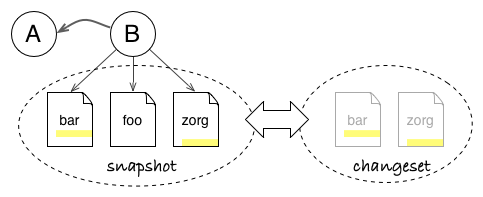
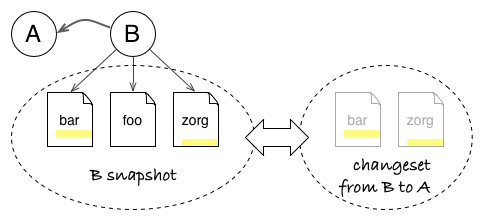
review: clarify some figure captions (JB)

diff --git a/demystifying_git2.md b/demystifying_git2.md
@@ -22,7 +22,7 @@ You make a cherry-pick when you want to retrieve some commits and changes from a
 
 _With `git cherry-pick B D`, you can copy changes from commits B and D into your current branch, without the change introduced by C. Notice that B’ and D’ are new commits: they just have the same data as their source but are independent otherwise._
 
-![](https://36.media.tumblr.com/6a23a581e1932175e2c1c519192d6b84/tumblr_inline_nn7e8uZ6MF1szbtyb_540.png)
+![](https://lh6.googleusercontent.com/-mCH6lljn2JI/VT5e0zYzqwI/AAAAAAAAC9Q/T3qNwT6FG4s/w200-h350-no/cherrypick.gif)
 
 Cherry-picking really embodies the whole changeset everywhere principle.
 
@@ -48,15 +48,15 @@ Here is the course of action when you launch a rebase:
 
 With this workflow in mind, it is easy to understand two fringe cases which deter some people to use rebase: orphan commits coming back (for example, after a merge) and recurring conflicts during rebase.
 
-### Orphan Commits
+### Advanced Git: Orphan Commits
 
-Although rebasing is often explained as moving commits around, it is best to understand it as copying commits. In the figure below, commits C’ and D’  carries the data of C and D, but have a different ancestry: following Git rules, they are not strictly the same as C and D. If no other reference (branch, tag) points to C and D commits, they become orphan and can be garbage collected by Git later. Otherwise, they stay around and can come back to haunt you later if people are unaware of how rebase works (i.e., they merge the old branch with C and D into the new branch).
+Although rebasing is often explained as moving commits around, it is best to understand it as copying commits. In the figure below, commits C’ and D’  carries the data of C and D, but have a different ancestry: following Git rules, they are not strictly the same as C and D. If no other reference (branch, tag) points to C and D commits, they become orphan and can be garbage collected by Git later. Otherwise, they stay around and can come back to haunt you later if people are unaware of how rebase works (for example, if they merge the old branch with C and D into the new branch).
 
-_Rebasing creates new commits from the source ones, changing the ancestry. But source commits stay around and can come back as duplicate changes if someone keeps a reference on them._
+_Rebasing creates new commits C' and D' from the source C and D, changing the ancestry from B to E. But source commits stay around and can come back as duplicates if someone keeps a reference on them._
 
 ![](https://36.media.tumblr.com/5b23f531b1f9769e6451f578abd1910b/tumblr_inline_nn7eb8HeGW1szbtyb_540.png)
 
-### Recurring Conflicts
+### Advanced Git: Recurring Conflicts
 
 Take the three commits above B, C, and D. That means the C changeset expects a context as in B and D changeset expects a context as in C. Now start a rebase with commits C and D on another branch:
 
@@ -86,11 +86,11 @@ With the above concepts, we have a simple plan for the merge operation.
 
 ![](https://40.media.tumblr.com/b75b74d376b4600e0b8045b31329a873/tumblr_inline_nn7h819aHb1szbtyb_540.png)
 
-### More Than One Ancestor?
+### Advanced Git: More Than One Ancestor?
 
 The example above represents the most basic scenario. But as merges can be performed multiple times in the history of two branches, you can stumble upon less intuitive cases. Then the notion of **latest** common ancestor becomes important.
 
-_If we take the changeset from common ancestor B to G, it contains changes from D and G, but also from C through the previous merge E. But we do not want C changes since they are already in F. Instead, if we take the changeset from **latest** common ancestor C to G, we only have D and G changes, as well as the optional conflict resolution in E, all consolidated in the G snapshot._
+_If we take the changeset from common ancestor B to G, it contains changes from D and G, but also from C through the previous merge E. But we do not want C changes since they are already in F. Instead, if we take the changeset from **latest** common ancestor C to G, it only contains changes from D, E, and G, consolidated in G snapshot._
 
 ![](https://40.media.tumblr.com/a48b1b30698de0add452473fd8f5d540/tumblr_inline_nn7ee7XY1c1szbtyb_540.png)
 

diff --git a/demystifying_git1.md b/demystifying_git1.md
@@ -16,7 +16,7 @@ The reason it starts from the project root folder is that you should save a cons
 
 With this guarantee, we can be sure that checking out a commit will give us that exact state we saved, be it a release version, a buggy one which needs a fix, or a work in progress.
 
-_Commit A points to a snapshot of all project files. Even if you only change the foo file to create a version v3 in commit A, Git will remember that you want zorg in version 1 and bar in version 2 for this snapshot._
+_Commit A points to a snapshot of all project files (files bar, foo, and zorg). Even if you only change the foo file (in yellow) to create a version v3 in commit A, Git will remember that you want zorg file in version 1 and bar file in version 2 for this snapshot._
 
 ![](https://36.media.tumblr.com/25b5bfcc2f53de00929a66e127ddc654/tumblr_inline_nn7cyqEALF1szbtyb_540.png)
 
@@ -38,21 +38,21 @@ When time has come to merge two branches together, Git creates a commit with two
 
 The concept of graph to represent the history of a project seems like pretty intuitive, even an obvious choice. You might be surprised by the fact that not all revision control tools use a graph as a first class representation. For example, Subversion works with independent directory-trees to represent branches and only stores branch/merge as meta-data: the lack of a full graph representation makes it difficult to follow merge history in SVN.
 
-But more importantly, the history graph allows us to compute the difference between any two states - which leads us to the next concept: changeset.
+But more importantly, the history graph allows us to compute the difference between two states - which leads us to the next concept: changeset.
 
 ## Git Can Compute Changes between any Two Commits of your Project
 
 When you create a commit B from commit A, you create a new snapshot. But you can also see it as an incremental evolution upon the previous commit. This contribution brought by the commit makes a group of indivisible changes, which is called a changeset.
 
-_A snapshot stores the full state, independent of history. A changeset only records what has changed._
+_A snapshot stores the full state, independent of history: B commit points to files bar, foo, and zorg. A changeset only records what has changed: B changeset describes local patches (in yellow) in bar and zorg files. Both concepts are actually interchangeable and can be used to model the history graph._
 
-![](https://40.media.tumblr.com/44608ff3d19dee93f3c2da4ce2d63b3b/tumblr_inline_nn7d33ROnU1szbtyb_540.png)
+![](https://lh5.googleusercontent.com/-qvs8v8QQj2k/VT5NwyslI_I/AAAAAAAAC80/5Mj3vau2I7I/w483-h220-no/changeset.png)
 
 ### What Is in a Changeset? And What to Do With It?
 
 The interesting bit about changesets is that they can be used as blueprint to copy the changes brought by B elsewhere. This is possible because a changeset contain just enough information about the transformation.
 
-_Changeset will only modify files bar and zorg inside commit F. It does not care that foo file from B is absent or that there is a yyy file._
+_Applying the B changeset onto commit F will only modify files bar and zorg. It does not care that unmodified foo file from B is absent in F or that there is a yyy file in F._
 
 ![](https://40.media.tumblr.com/d3a81a93baa464d2b044313674d7914e/tumblr_inline_nn7d3kbpAT1szbtyb_540.png)
 
